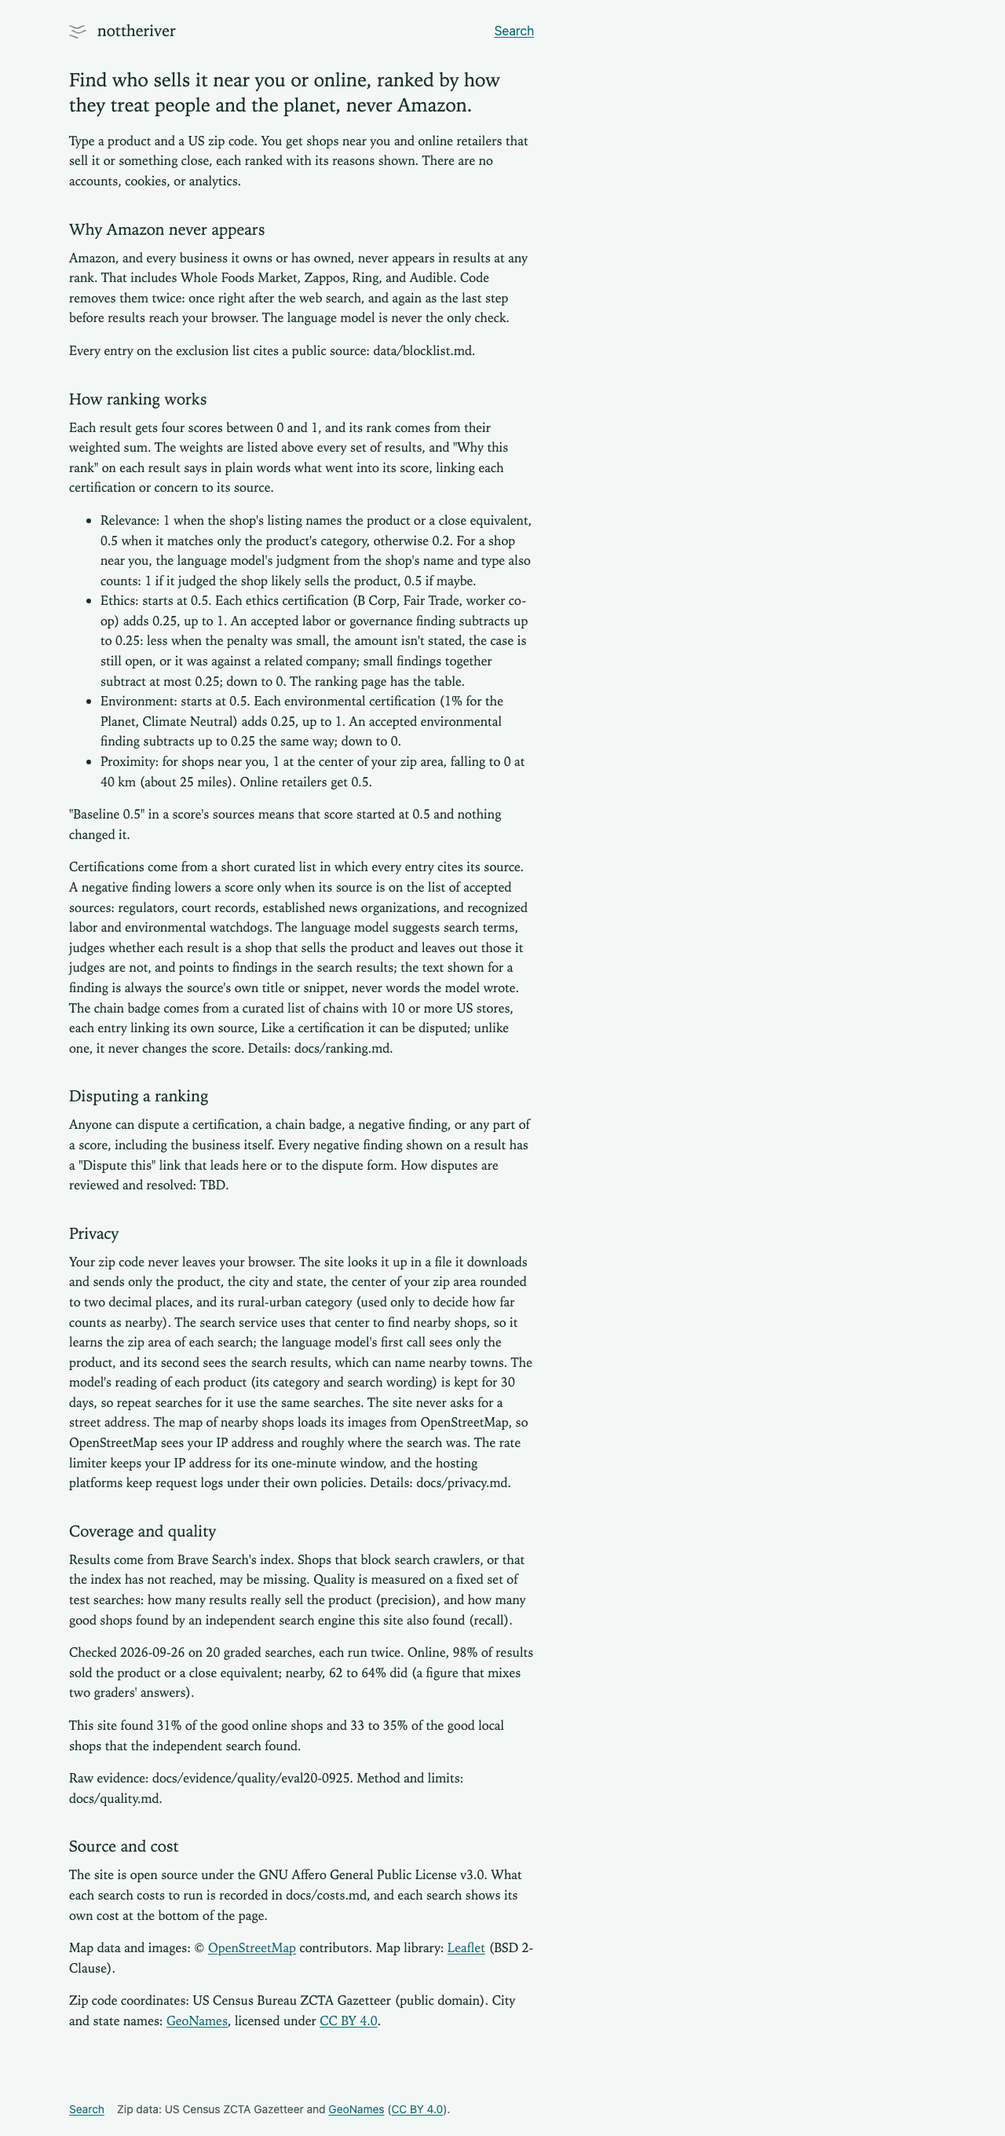
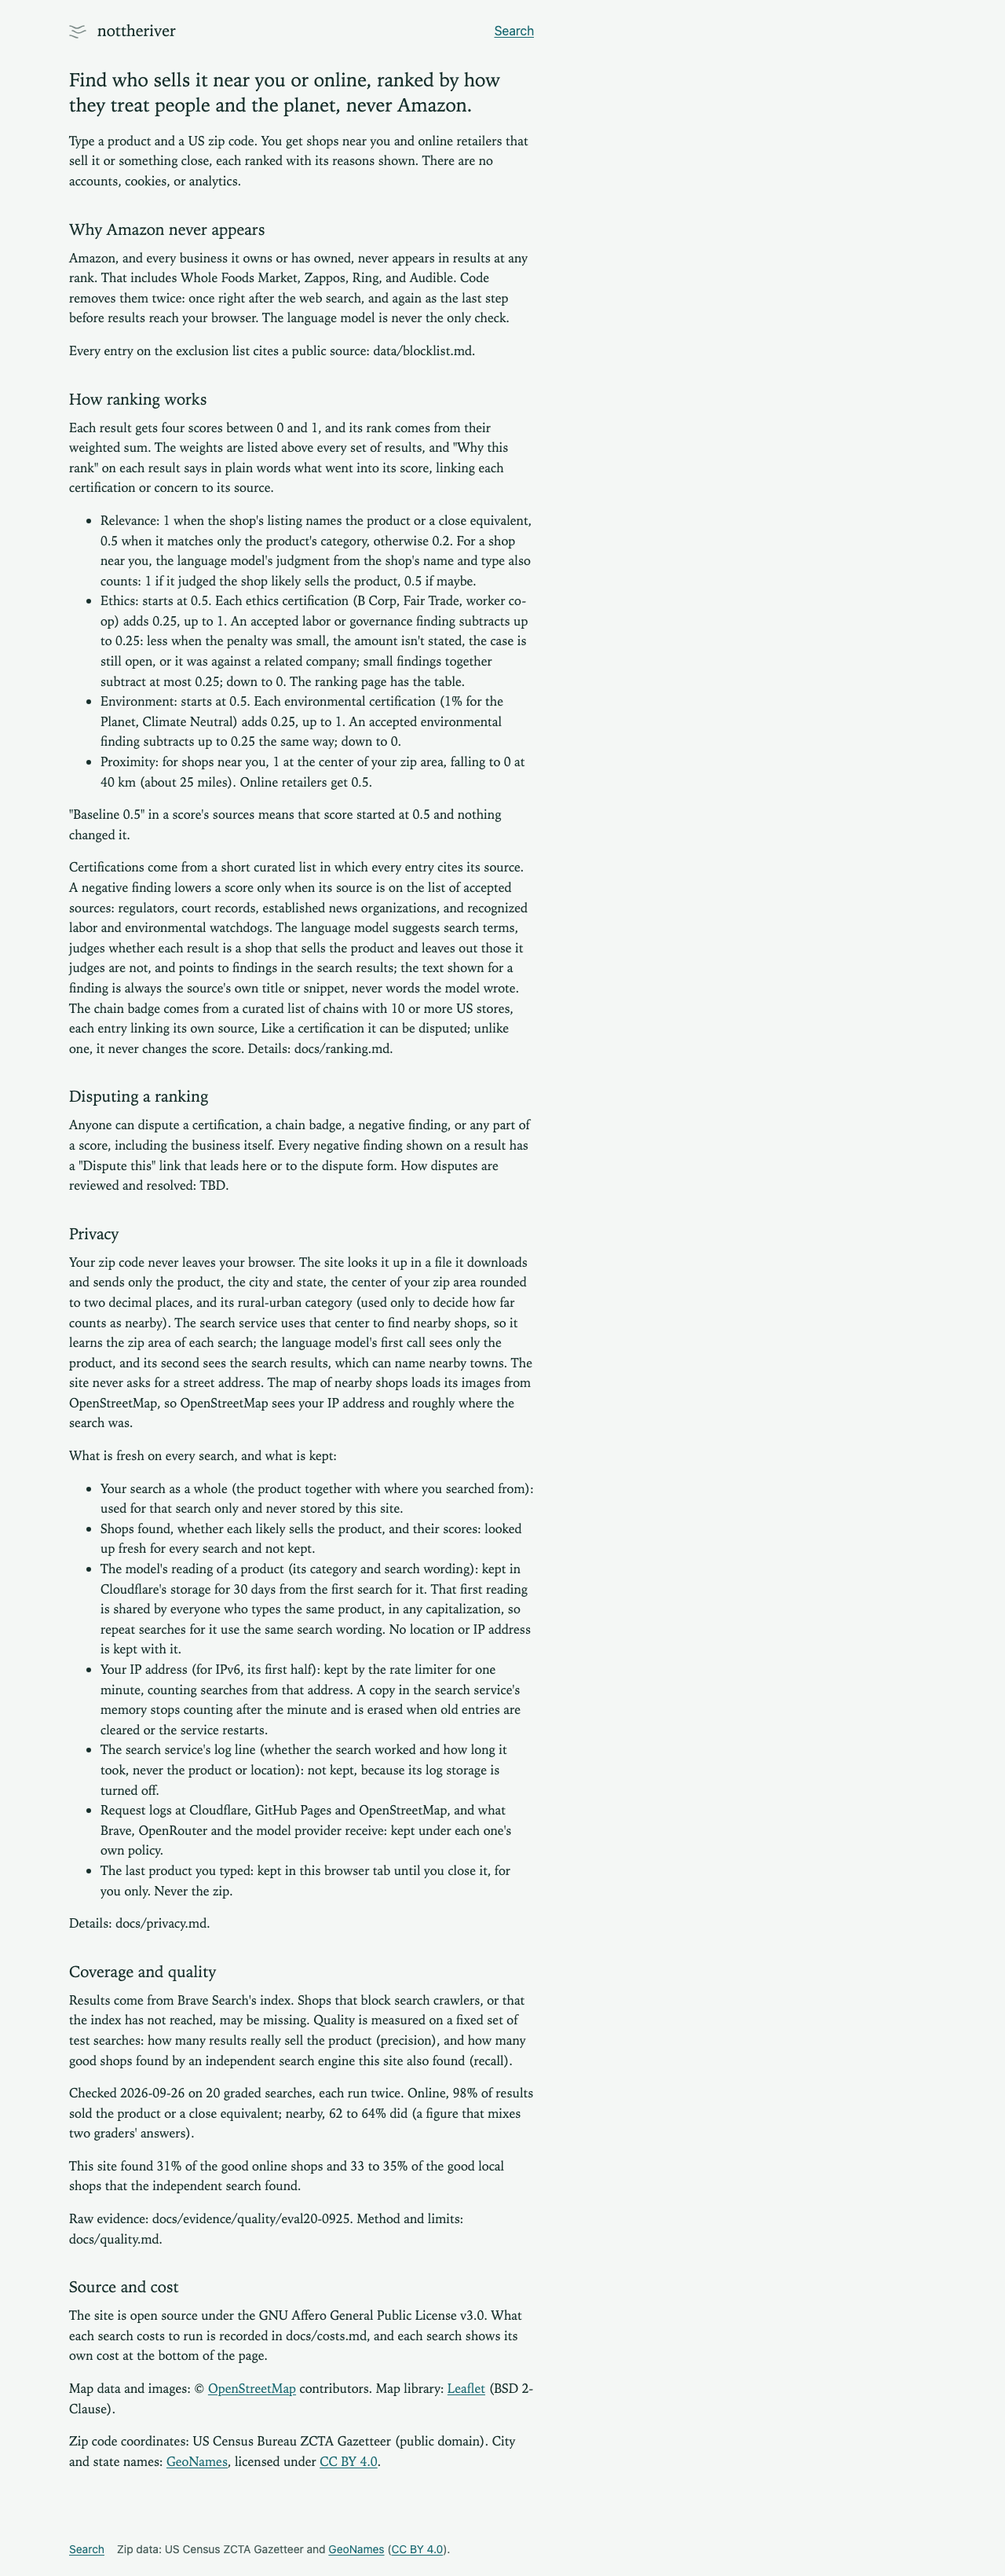
feat(site): list what is fresh and what is kept on the About page
Adds a short list under Privacy, one line per item (what, fresh or kept,
where, how long, who shares it), sourced from the privacy doc's "What is
kept" table. The product-reading and rate-limiter sentences move into it.
privacy.md points at the list so the two change together.

Claude-Session: https://claude.ai/code/session_01UGnA4pQ5XqjjBhzTP8XtF9

Changed region(s): [[0.0625, 0.0, 0.5312, 0.9577], [0.0625, 0.9886, 0.4375, 1.0], [0.5, 0.0, 0.5312, 0.0309]]

diff --git a/about.html b/about.html
@@ -45,7 +45,19 @@
 <p data-needs-repo hidden>Open a dispute with the <a data-dispute-link>dispute issue template</a>. It asks for the retailer, the signal shown, the source link, and evidence for the correction.</p>
 
 <h2 id="privacy">Privacy</h2>
-<p>Your zip code never leaves your browser. The site looks it up in a file it downloads and sends only the product, the city and state, the center of your zip area rounded to two decimal places, and its rural-urban category (used only to decide how far counts as nearby). The search service uses that center to find nearby shops, so it learns the zip area of each search; the language model's first call sees only the product, and its second sees the search results, which can name nearby towns. The model's reading of each product (its category and search wording) is kept for 30 days, so repeat searches for it use the same searches. The site never asks for a street address. The map of nearby shops loads its images from OpenStreetMap, so OpenStreetMap sees your IP address and roughly where the search was. The rate limiter keeps your IP address for its one-minute window, and the hosting platforms keep request logs under their own policies. Details: <a data-repo-path="blob/main/docs/privacy.md">docs/privacy.md</a>.</p>
+<p>Your zip code never leaves your browser. The site looks it up in a file it downloads and sends only the product, the city and state, the center of your zip area rounded to two decimal places, and its rural-urban category (used only to decide how far counts as nearby). The search service uses that center to find nearby shops, so it learns the zip area of each search; the language model's first call sees only the product, and its second sees the search results, which can name nearby towns. The site never asks for a street address. The map of nearby shops loads its images from OpenStreetMap, so OpenStreetMap sees your IP address and roughly where the search was.</p>
+<p>What is fresh on every search, and what is kept:</p>
+<!-- Must match the "What is kept, and where" table in docs/privacy.md. A new cache is one more line here: what, fresh or kept, where, how long, who shares it. -->
+<ul>
+<li>Your search as a whole (the product together with where you searched from): used for that search only and never stored by this site.</li>
+<li>Shops found, whether each likely sells the product, and their scores: looked up fresh for every search and not kept.</li>
+<li>The model's reading of a product (its category and search wording): kept in Cloudflare's storage for 30 days from the first search for it. That first reading is shared by everyone who types the same product, in any capitalization, so repeat searches for it use the same search wording. No location or IP address is kept with it.</li>
+<li>Your IP address (for IPv6, its first half): kept by the rate limiter for one minute, counting searches from that address. A copy in the search service's memory stops counting after the minute and is erased when old entries are cleared or the service restarts.</li>
+<li>The search service's log line (whether the search worked and how long it took, never the product or location): not kept, because its log storage is turned off.</li>
+<li>Request logs at Cloudflare, GitHub Pages and OpenStreetMap, and what Brave, OpenRouter and the model provider receive: kept under each one's own policy.</li>
+<li>The last product you typed: kept in this browser tab until you close it, for you only. Never the zip.</li>
+</ul>
+<p>Details: <a data-repo-path="blob/main/docs/privacy.md">docs/privacy.md</a>.</p>
 
 <h2 id="coverage">Coverage and quality</h2>
 <p>Results come from Brave Search's index. Shops that block search crawlers, or that the index has not reached, may be missing. Quality is measured on a fixed set of test searches: how many results really sell the product (precision), and how many good shops found by an independent search engine this site also found (recall).</p>

diff --git a/docs/privacy.md b/docs/privacy.md
@@ -35,6 +35,8 @@ The Worker builds every outbound header from fixed values, so your browser's `Us
 | Brave, OpenRouter, the model provider | The data in the table above | Per each service's policy; see the OpenRouter settings below |
 | Your browser | The last product you typed, in `sessionStorage` (cleared when the tab closes). Never the zip | Until the tab closes |
 
+The About page's Privacy section lists the same items in plain words ("What is fresh on every search, and what is kept"); a change to this table changes that list too, and a new cache adds one line to each.
+
 No cookies, no analytics, no third-party scripts, no CDN fonts. The map library (Leaflet) is bundled with the site; only the map images come from a third party.
 
 ## OpenRouter settings (operator action, not verified)
